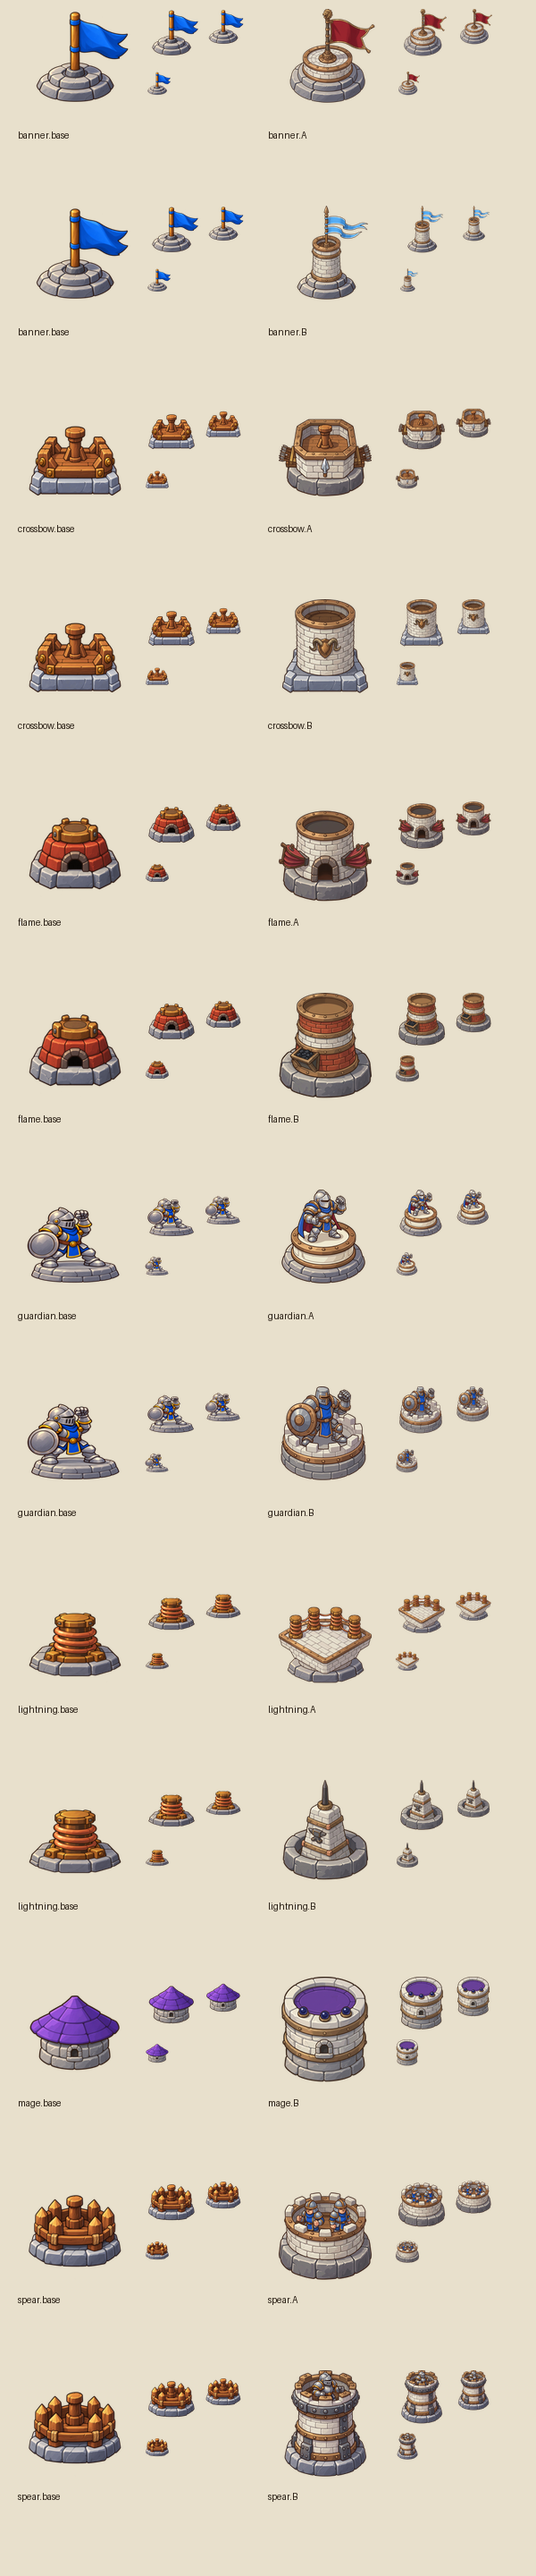
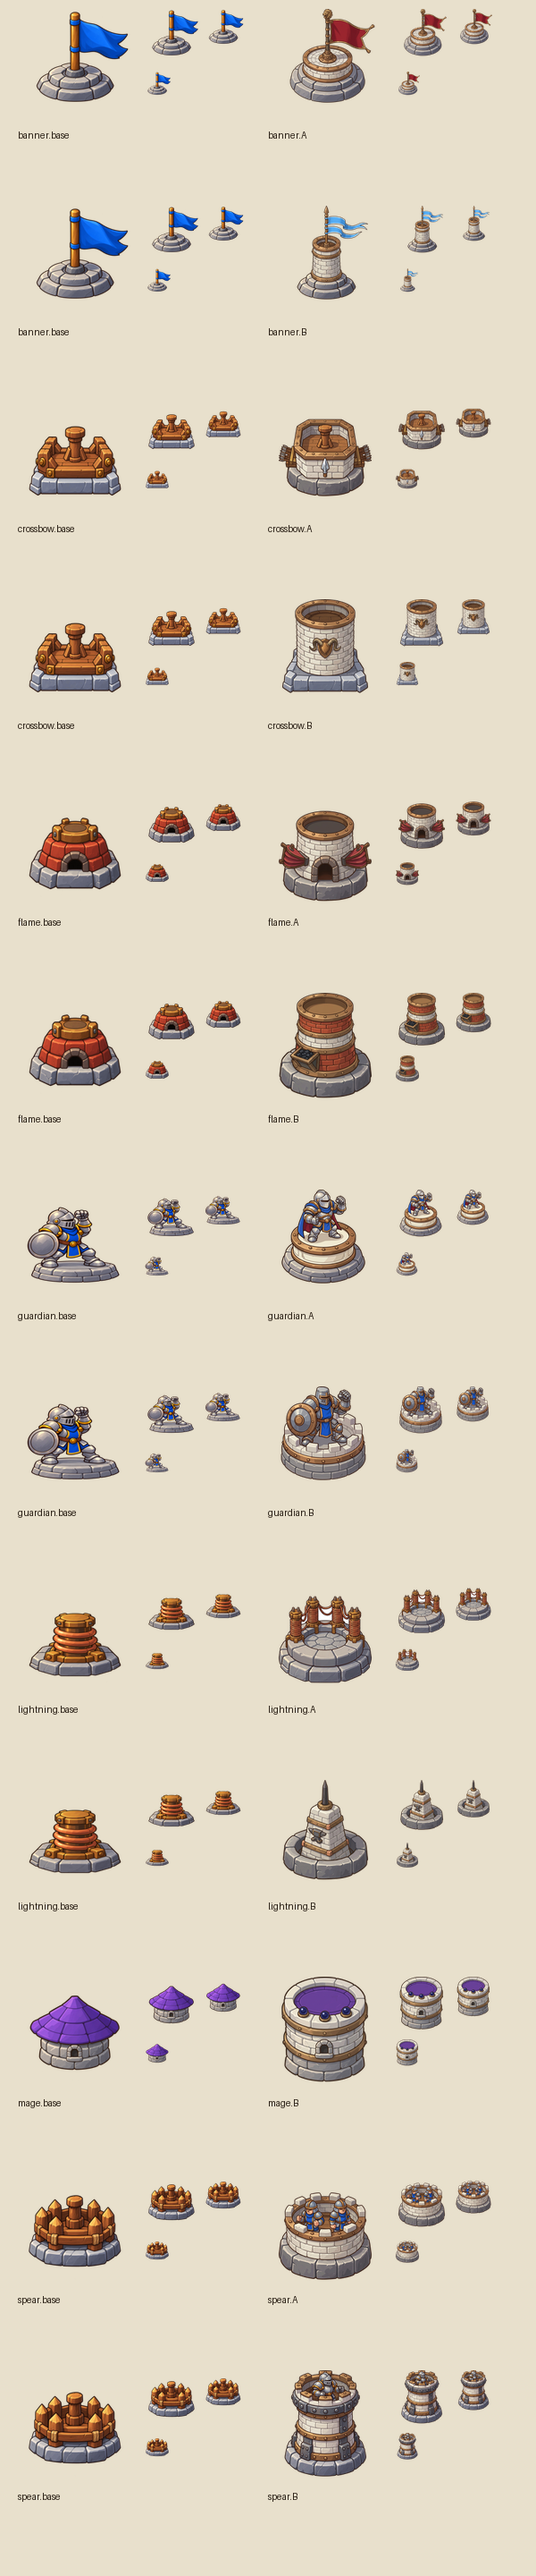
art(renewal): 2차 진화형 16종·번개 A 재작업 draft(Antigravity 편집), 창병 A2 반려

Changed region(s): [[0.51, 0.5938, 0.69, 0.6562], [0.75, 0.5938, 0.84, 0.6562], [0.87, 0.5938, 0.9, 0.625]]

diff --git a/asset-source/renewal/ART-T2/VERDICT.md b/asset-source/renewal/ART-T2/VERDICT.md
@@ -1,0 +1,8 @@
+# ART-T2 판정 (2026-10-31, 총괄)
+
+방식: Antigravity가 통과한 1차형을 편집(2차형), 번개 A는 기본형을 다시 편집. 처리: tools/tower_prepare.py.
+
+- 통과(draft) 17종: lightning.A(재작업, 둥근 받침·코일 넷), crossbow.A1·A2·B1·B2, mage.A1·A2·B1·B2, lightning.A1·A2·B1·B2, flame.A1·A2·B1·B2. 같은 타워의 일곱 형태가 한 계보로 읽히고, 같은 길의 두 형태는 꼭대기 상징물로 구별된다.
+- 반려: spear.A2(rejected/). 바닥 소용돌이 고리만 있고 병사가 없어 창병초소로 읽히지 않는다.
+- 미생성 11종: spear.A1·B1·B2, guardian.A1·A2·B1·B2, banner.A1·A2·B1·B2. Antigravity 이미지 생성 쿼터 소진. flame.A2는 첫 결과에 글자 명판이 있어 Antigravity가 다시 만든 본(spiral_chimney_clean)을 썼다.
+- 다시 볼 것: 화염탑은 기본형의 붉은 돔이 진화하면서 흰 돌로 바뀌어 역할 색(빨강)이 약해진다. 게임 크기에서 구별이 어려우면 붉은 표식을 더한다.
